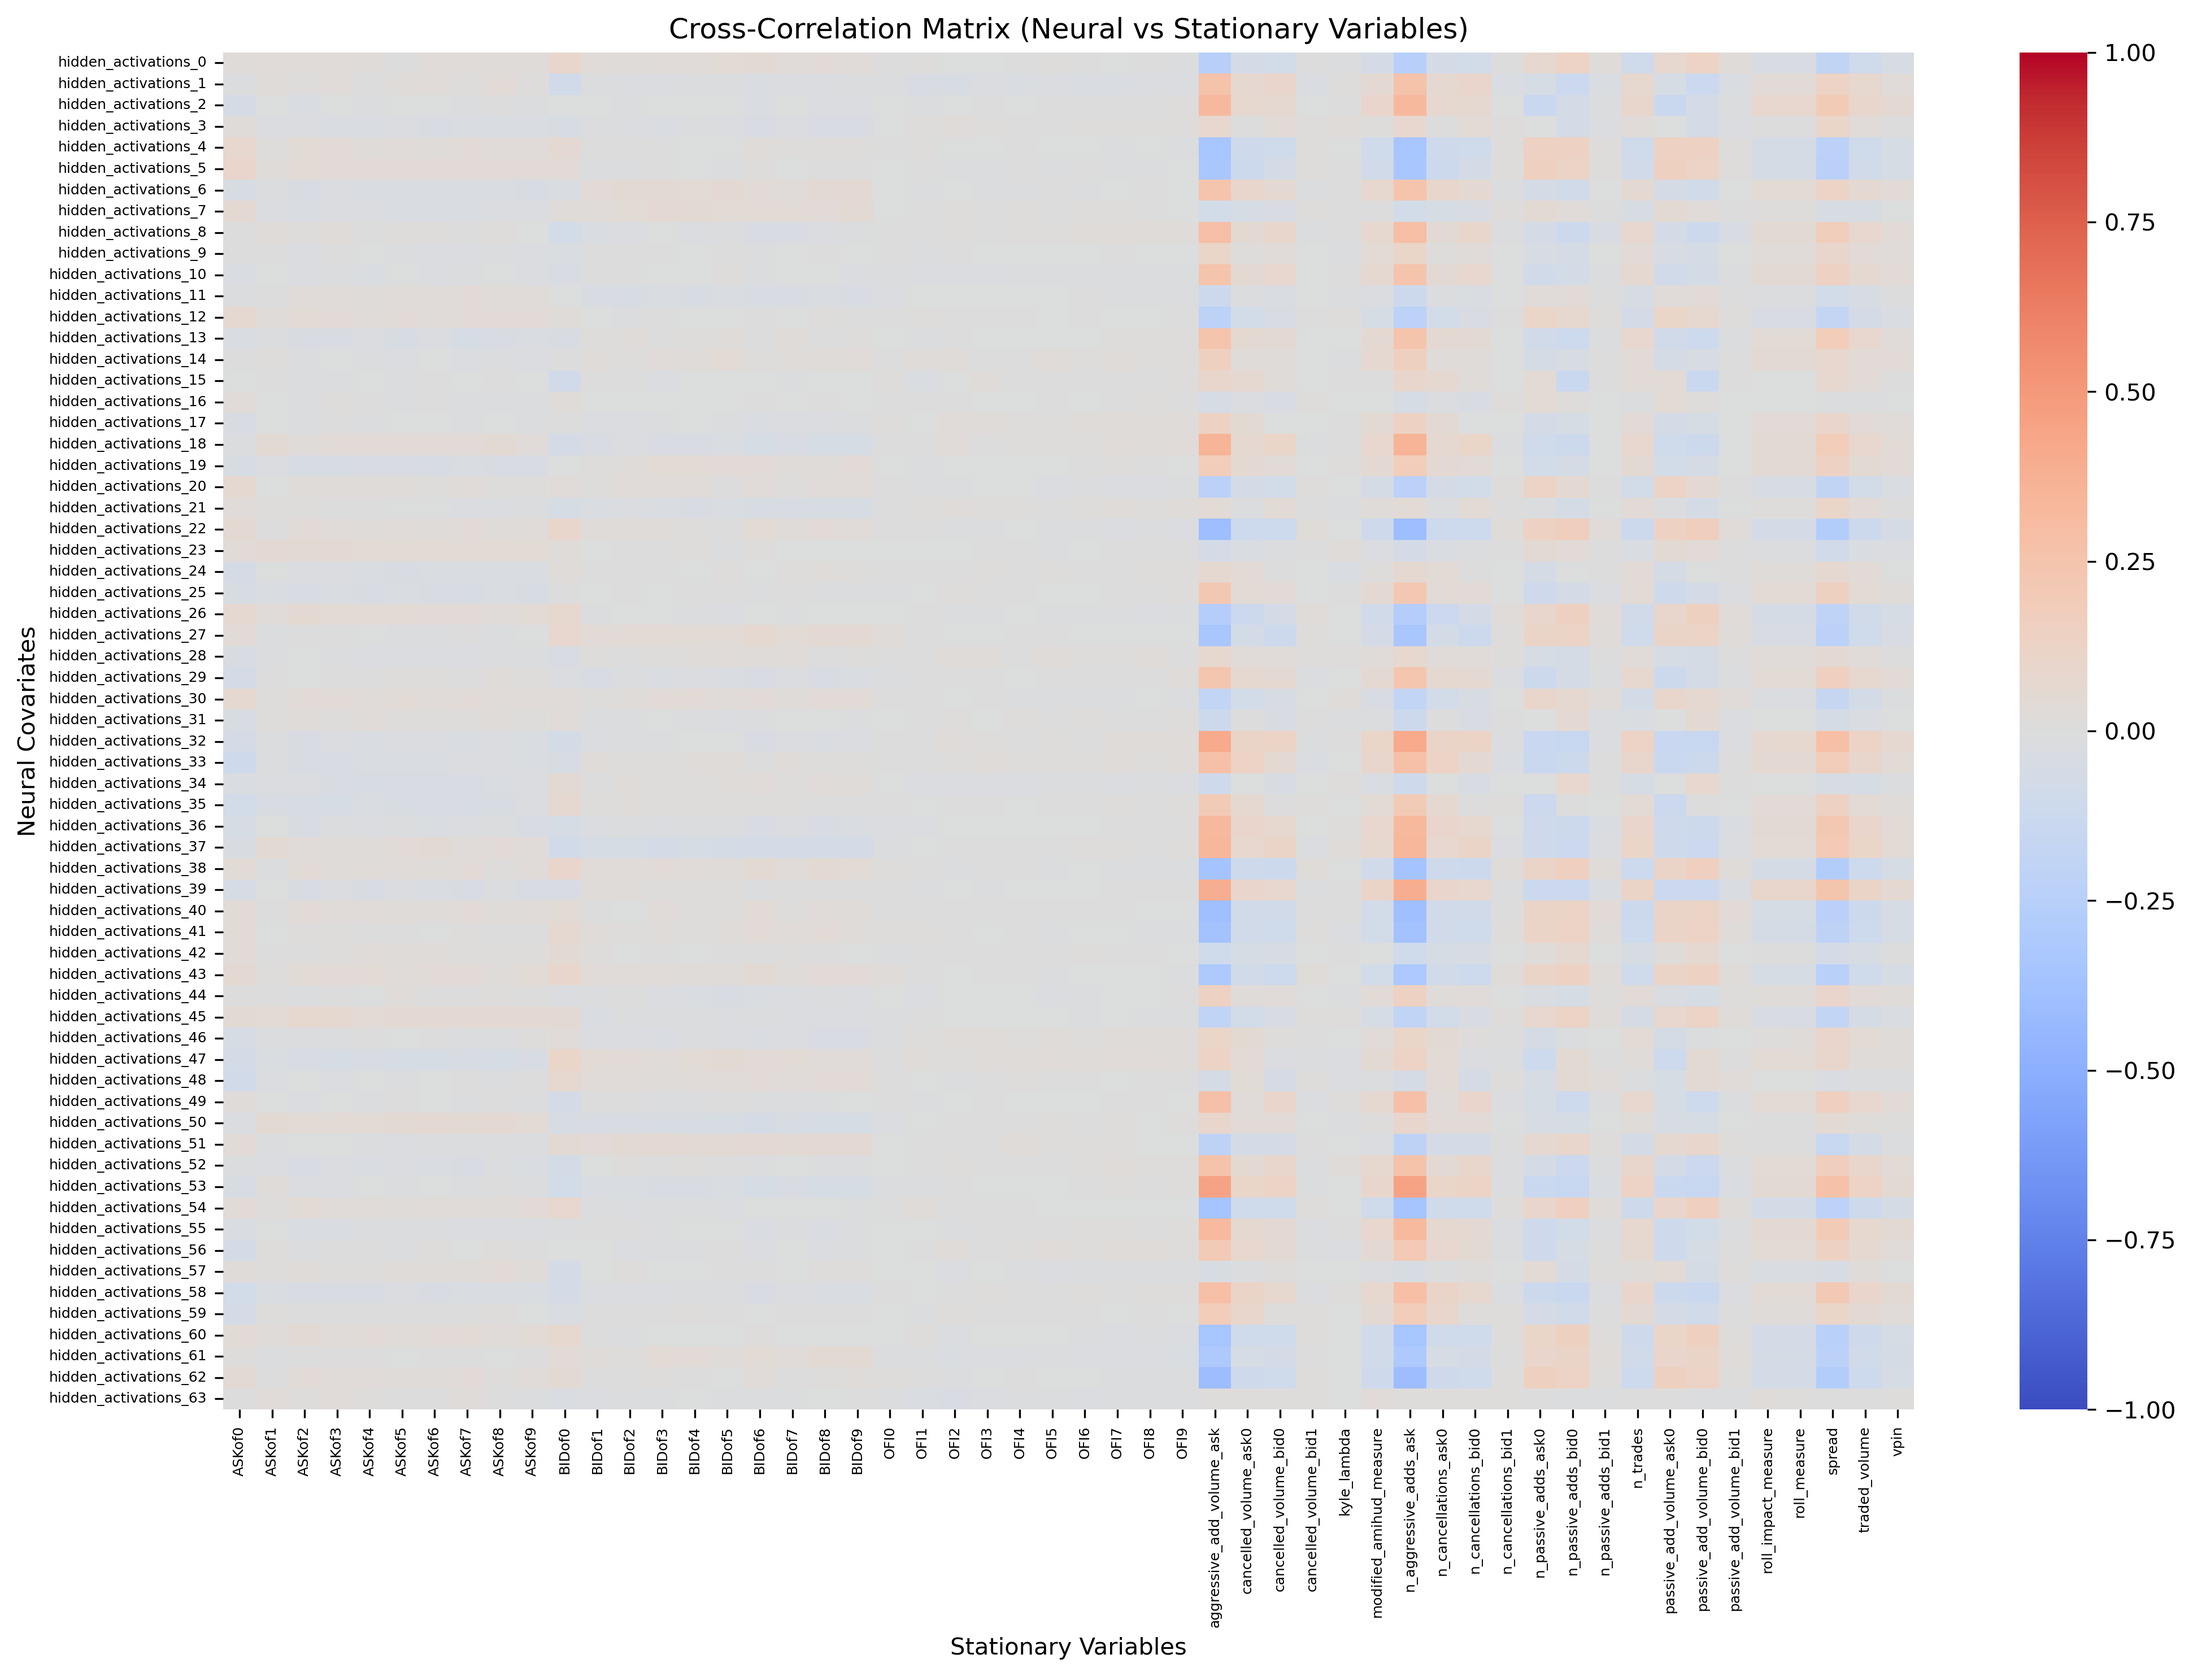
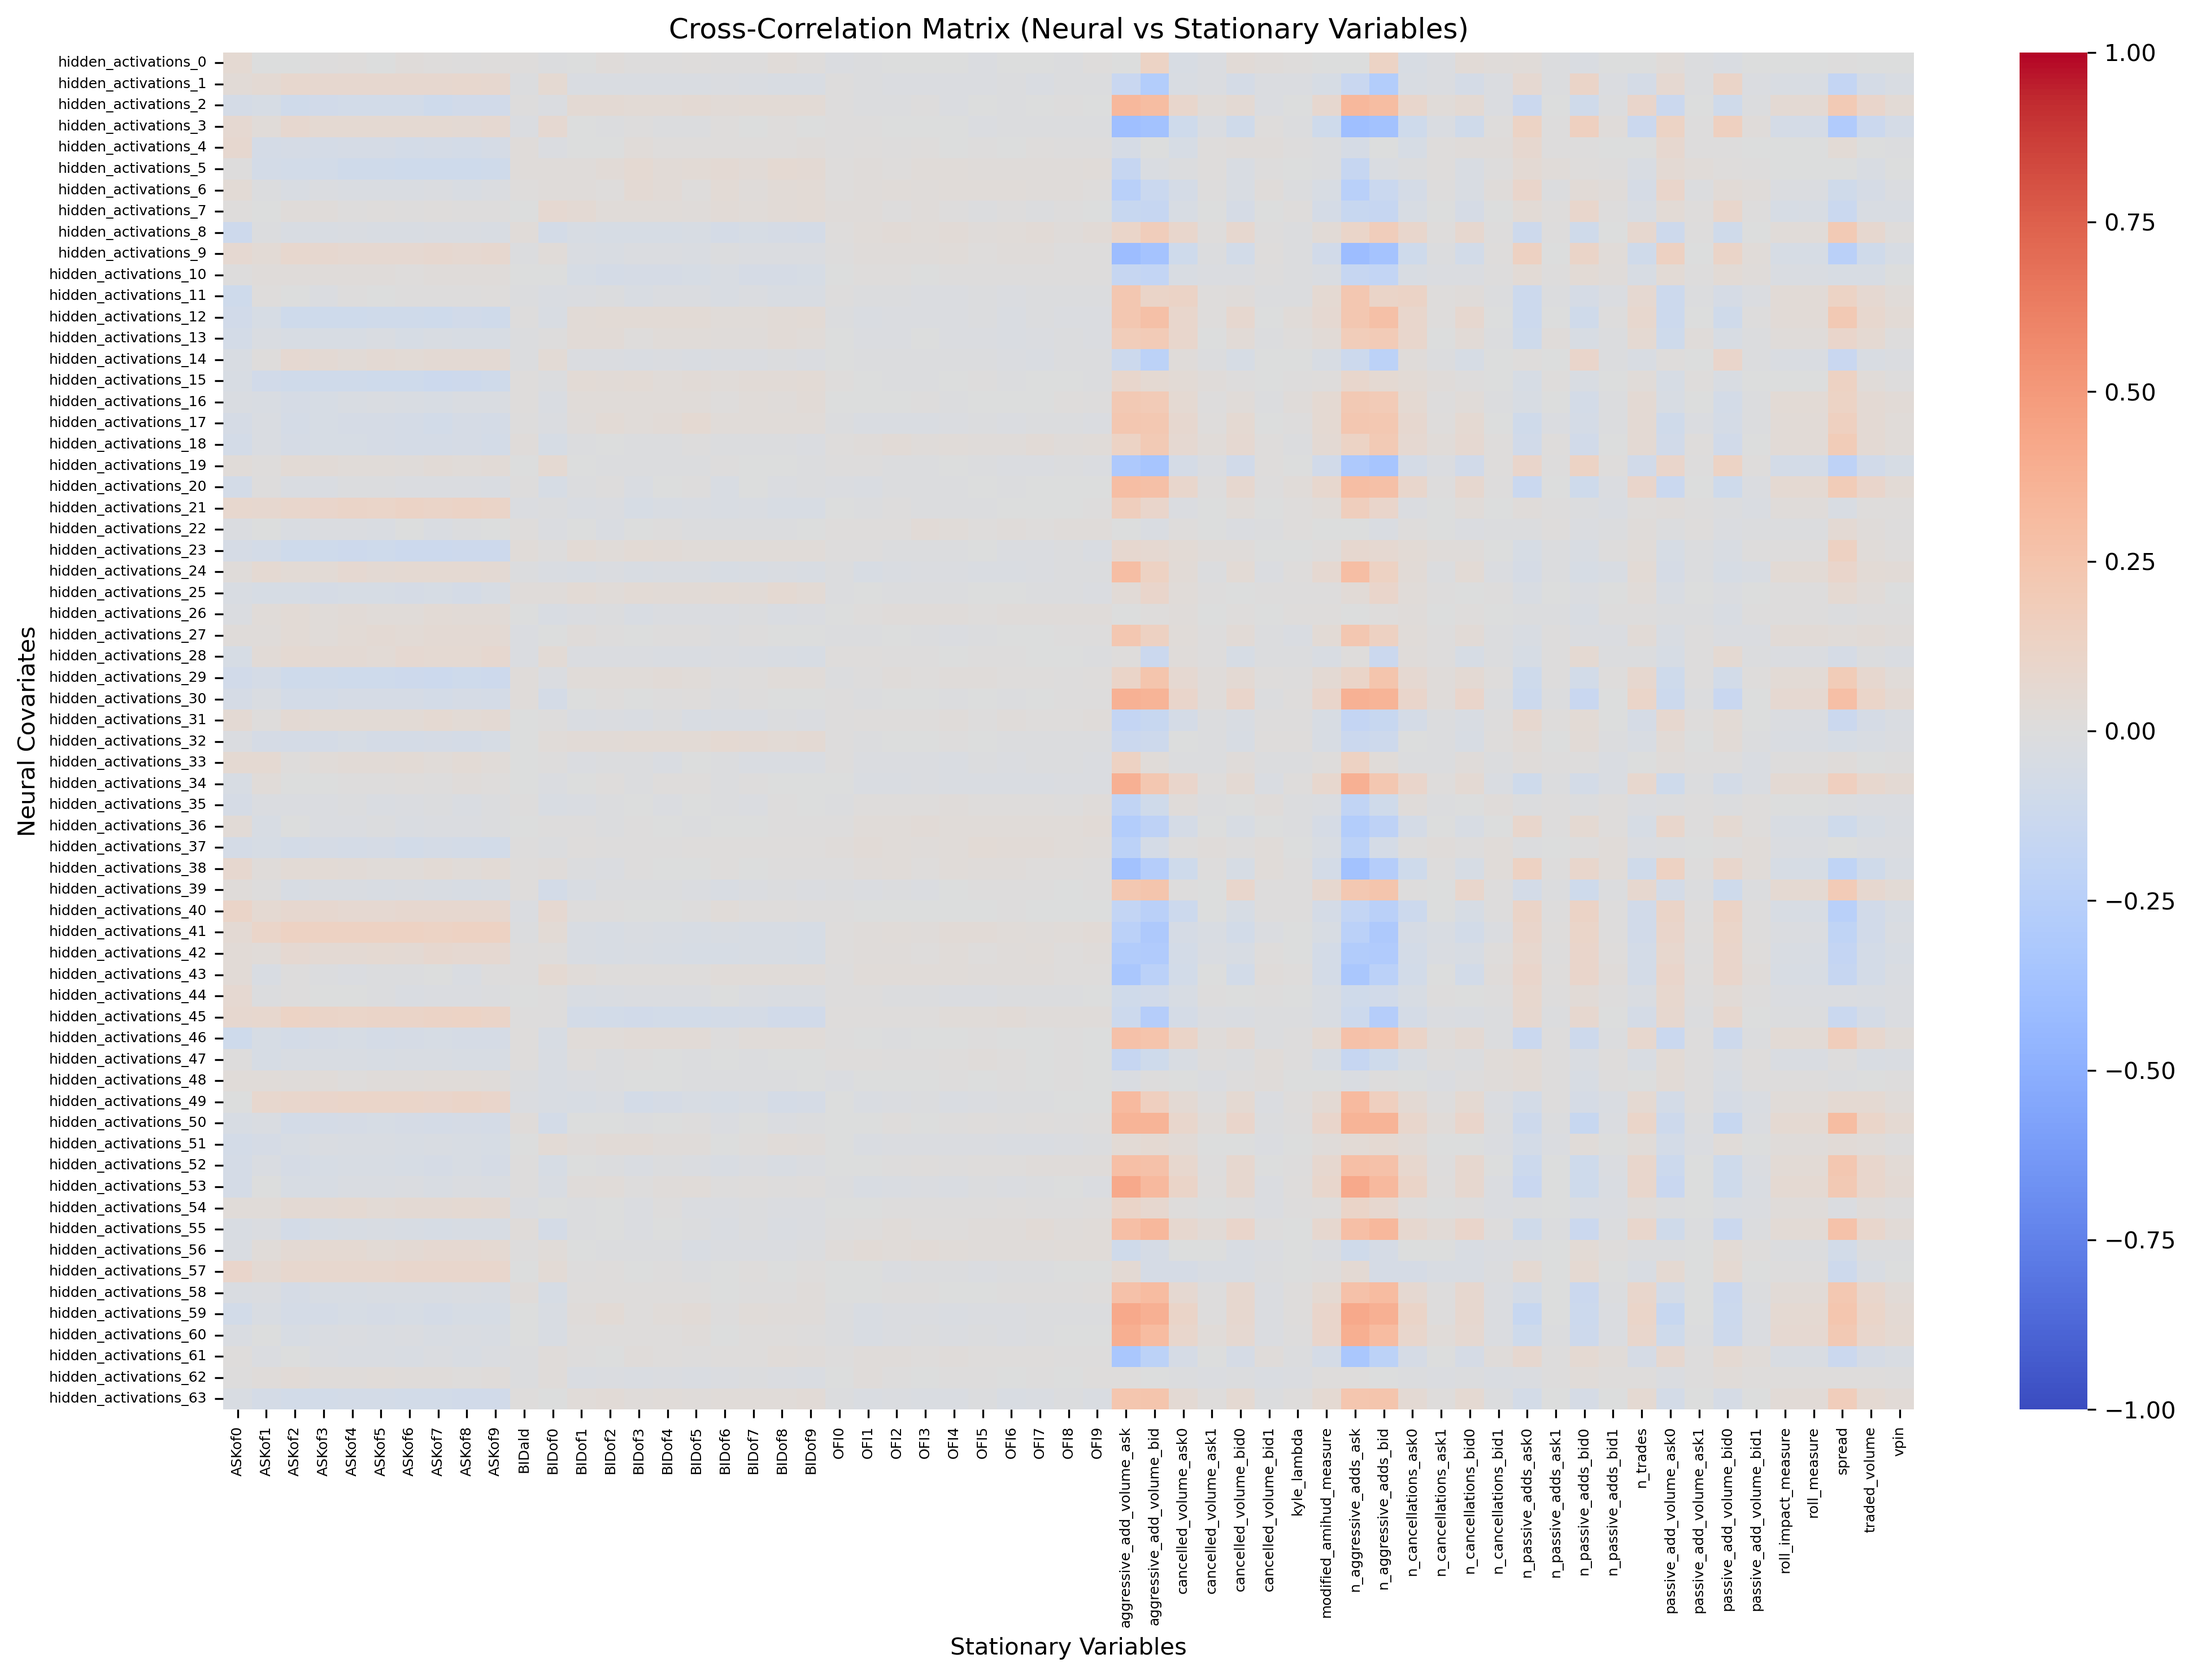
Basic forecast implementation in the adapter module

diff --git a/tests/test_adapter.py b/tests/test_adapter.py
@@ -1,7 +1,8 @@
 #!/usr/bin/env python3
 """
-Simple test for TTSTL Adapter update_adapter method.
-Tests update_adapter function iterating over the first 5 adapter bars.
+Simple test for TTSTL Adapter update_adapter and forecast methods.
+Tests update_adapter function iterating over the first 5 adapter bars,
+and tests forecast method using data from one adapter bar to forecast the next.
 """
 
 import sys
@@ -32,10 +33,10 @@ from ttstl.utils.data_preprocessor import get_dataset_cnn_lstm
 
 
 def main():
-    """Test the update_adapter method iterating over first 5 adapter bars."""
+    """Test the update_adapter and forecast methods iterating over first 5 adapter bars."""
     
-    print("TTSTL Adapter Simple Test - First 5 Adapter Bars")
-    print("="*60)
+    print("TTSTL Adapter Test - Update and Forecast on First 5 Adapter Bars")
+    print("="*70)
     
     # Initialize the CNN-LSTM model - use GPU if available
     device = torch.device('cuda:2' if torch.cuda.is_available() else 'cpu')
@@ -156,7 +157,7 @@ def main():
     
     # Initialize adapter
     print("\n" + "="*40)
-    print("TESTING ADAPTER UPDATE_ADAPTER METHOD")
+    print("TESTING ADAPTER UPDATE_ADAPTER AND FORECAST METHODS")
     print("="*40)
     
     adapter = Adapter(interface=interface, update_method='myopic')
@@ -172,8 +173,10 @@ def main():
     print(f"Found {len(adapter_bars)} adapter bars in dataset")
     print(f"Testing first 5 adapter bars: {adapter_bars[:5]}")
     
-    # Test update_adapter on first 5 adapter bars
+    # Test update_adapter and forecast on first 5 adapter bars
     successful_updates = 0
+    successful_forecasts = 0
+    adapter_bar_data = {}  # Store data for each adapter bar for forecasting
     
     for i, adapter_bar in enumerate(adapter_bars[:5]):
         print(f"\n--- Testing Adapter Bar {adapter_bar} ({i+1}/5) ---")
@@ -187,31 +190,97 @@ def main():
             print(f"Skipping bar {adapter_bar}: insufficient data ({len(bar_ptdata)} < 10)")
             continue
         
-        # try:
-        # Test update_adapter method
-        print("Testing update_adapter method...")
-        result = adapter.update_adapter(
-            event_driven_adapter_time_bar_data=bar_edlob,
-            physical_time_driven_adapter_time_bar_data=bar_ptdata,
-            adapter_bar_number=i+1,
-            target_col_name='micro_return'
-        )
+        # Store data for potential forecasting
+        adapter_bar_data[adapter_bar] = {
+            'ptdata': bar_ptdata,
+            'edlob': bar_edlob
+        }
         
-        print(f"✓ update_adapter successful!")
-        print(f"  Updated parameters: {len(result)} parameters")
-        print(f"  Parameter names: {list(result.keys())}")
-        
-        successful_updates += 1
+        try:
+            # Test update_adapter method
+            print("Testing update_adapter method...")
+            result = adapter.update_adapter(
+                event_driven_adapter_time_bar_data=bar_edlob,
+                physical_time_driven_adapter_time_bar_data=bar_ptdata,
+                adapter_bar_number=i+1,
+                target_col_name='micro_return'
+            )
             
-        # except Exception as e:
-        #     print(f"✗ update_adapter failed: {e}")
-        #     continue
+            print(f"✓ update_adapter successful!")
+            print(f"  Updated parameters: {len(result)} parameters")
+            print(f"  Parameter names: {list(result.keys())}")
+            
+            successful_updates += 1
+            
+            # Test forecast method if this is not the first adapter bar
+            if i > 0 and adapter.spec is not None:
+                print("Testing forecast method...")
+                try:
+                    # Get previous adapter bar data for in-sample
+                    prev_adapter_bar = adapter_bars[i-1]
+                    prev_bar_ptdata = adapter_bar_data[prev_adapter_bar]['ptdata']
+                    
+                    # Prepare data for forecasting
+                    # Get selected variables (excluding lag variables)
+                    selected_vars = [var for var in interface.selected_variables 
+                                   if not var.startswith('micro_return_lag_')]
+                    
+                    # Split current bar data for out-of-sample
+                    current_bar_size = len(bar_ptdata)
+                    out_sample_size = min(10, current_bar_size // 3)  # Use 1/3 or max 10 observations
+                    in_sample_size = current_bar_size - out_sample_size
+                    
+                    # In-sample data (most of current bar)
+                    in_sample_target = bar_ptdata['micro_return'].iloc[:in_sample_size]
+                    in_sample_regressors = bar_ptdata[selected_vars].iloc[:in_sample_size]
+                    
+                    # Out-of-sample data (end of current bar to forecast)
+                    out_sample_target = bar_ptdata['micro_return'].iloc[in_sample_size:]
+                    out_sample_regressors = bar_ptdata[selected_vars].iloc[in_sample_size:]
+                    
+                    if len(out_sample_target) > 0 and len(in_sample_target) > 0:
+                        print(f"  Forecasting {len(out_sample_target)} observations using {len(in_sample_target)} in-sample observations")
+                        
+                        # Call forecast method
+                        forecast_result = adapter.forecast(
+                            in_sample_target_variable_data=in_sample_target,
+                            in_sample_external_regressors=in_sample_regressors,
+                            out_sample_target_variable_data=out_sample_target,
+                            out_sample_external_regressors=out_sample_regressors
+                        )
+                        
+                        print(f"✓ forecast successful!")
+                        print(f"  Forecast result type: {type(forecast_result)}")
+                        successful_forecasts += 1
+                    else:
+                        print("  Insufficient data for out-of-sample forecasting")
+                        
+                except Exception as e:
+                    print(f"✗ forecast failed: {e}")
+                    # Continue with next adapter bar even if forecast fails
+                    pass
+            elif i == 0:
+                print("  Skipping forecast for first adapter bar (no previous data)")
+            else:
+                print("  Skipping forecast (no GARCH specification available)")
+            
+        except Exception as e:
+            print(f"✗ update_adapter failed: {e}")
+            continue
     
     print("\n" + "="*50)
     if successful_updates > 0:
-        print("✓ TESTS PASSED")
+        print("✓ UPDATE TESTS PASSED")
         print(f"Successfully updated adapter on {successful_updates}/5 adapter bars")
         print("✓ Adapter update_adapter method working correctly")
+        
+        if successful_forecasts > 0:
+            print("✓ FORECAST TESTS PASSED")
+            print(f"Successfully forecasted on {successful_forecasts}/{successful_updates-1} eligible adapter bars")
+            print("✓ Adapter forecast method working correctly")
+        else:
+            print("⚠ FORECAST TESTS: No successful forecasts (may be due to data constraints)")
+        
         return True
     else:
         print("✗ TESTS FAILED")

diff --git a/src/ttstl/adapter.py b/src/ttstl/adapter.py
@@ -9,6 +9,8 @@ import os
 # Activate pandas to R conversion
 pandas2ri.activate()
 
+rugarch = importr('rugarch')
+
 class Adapter:
     def __init__(self, 
                  interface,
@@ -27,6 +29,7 @@ class Adapter:
         self.model = model
         self.archm = archm
         self.parameters = parameters
+        self.spec = None  # To store GARCH specification
 
     def _update_myopic(self, new_parameters: dict):
         self.parameters = new_parameters
@@ -110,21 +113,24 @@ class Adapter:
             'display': False  # Don't generate plots in batch processing
         }
         
-        #if self.parameters:
-        #    r_params['start_pars'] = ro.ListVector(self.parameters)
+        if self.parameters:
+           r_params['start_pars'] = ro.ListVector(self.parameters)
+
 
         # Call the R function
         r_result = run_garch_model(y = y,
-                                    X = ro.NULL if X is None else X,
-                                    Z = ro.NULL if Z is None else Z,
-                                    p = self.arma_order[0],
-                                    q = self.arma_order[1],
-                                    m = self.garch_order[0],
-                                    s = self.garch_order[1],
-                                    archm = self.archm,
-                                    dist = self.dist,
-                                    out_sample = out_sample,
-                                    display = False)
+                        X = ro.NULL if X is None else X,
+                        Z = ro.NULL if Z is None else Z,
+                        p = self.arma_order[0],
+                        q = self.arma_order[1],
+                        m = self.garch_order[0],
+                        s = self.garch_order[1],
+                        archm = self.archm,
+                        dist = self.dist,
+                        model = self.model,
+                        start_pars = ro.ListVector({}) if not self.parameters else r_params['start_pars'],
+                        out_sample = out_sample,
+                        display = False)
 
         # Convert R results back to Python dictionary
         result_dict = {}
@@ -139,6 +145,7 @@ class Adapter:
         result_dict['ljung_box_squared_tests'] = np.array(r_result.rx2('lb_sq'))
         result_dict['standardized_residuals'] = np.array(r_result.rx2('stdresid'))
         result_dict['saddle_point_indicator'] = int(r_result.rx2('saddle')[0])
+        result_dict['spec'] = r_result.rx2('spec')  # Store GARCH specification
         
         # Store model specification info
         result_dict['model_info'] = {
@@ -288,11 +295,40 @@ class Adapter:
             else:
                 raise ValueError(f"Update method '{self.update_method}' not implemented")
             
+            self.spec = garch_results['spec']  # Store GARCH specification
+            
             # Prepare return dictionary
             return self.parameters
 
         except Exception as e:
             raise RuntimeError(f"Failed to update adapter for bar {adapter_bar_number}: {str(e)}")
 
-    def forecast(self):
-        pass
+    def forecast(self, 
+                 in_sample_target_variable_data : pd.Series, 
+                 in_sample_external_regressors : pd.DataFrame,
+                 out_sample_target_variable_data : pd.Series,
+                 out_sample_external_regressors : pd.DataFrame):
+        r_script_path = os.path.join(os.path.dirname(__file__), 'r_scripts', 'run_garch.R')
+        ro.r(f'source("{r_script_path}")')
+        set_fixed_parameters = ro.globalenv['set_fixed_parameters']
+
+        spec_with_fixed_pars = set_fixed_parameters(self.spec, ro.ListVector(self.parameters))
+
+        combined_target_variable_data = pd.concat([in_sample_target_variable_data, out_sample_target_variable_data])
+        combined_external_regressors = pd.concat([in_sample_external_regressors, out_sample_external_regressors])
+
+        external_forecasts_r = ro.ListVector({'mregfor' : ro.r['matrix'](
+                                                        combined_external_regressors.values,
+                                                        nrow=combined_external_regressors.shape[0],
+                                                        ncol=combined_external_regressors.shape[1])})
+
+        garch_forecast = rugarch.ugarchforecast(fitORspec = spec_with_fixed_pars, 
+                                                data = combined_target_variable_data.values,
+                                                n_ahead = 1,
+                                                n_roll = out_sample_target_variable_data.shape[0]-1,
+                                                out_sample = out_sample_target_variable_data.shape[0],
+                                                external = external_forecasts_r)
+        
+        print(rugarch.fitted(garch_forecast))
+
+        return rugarch.fitted(garch_forecast)
